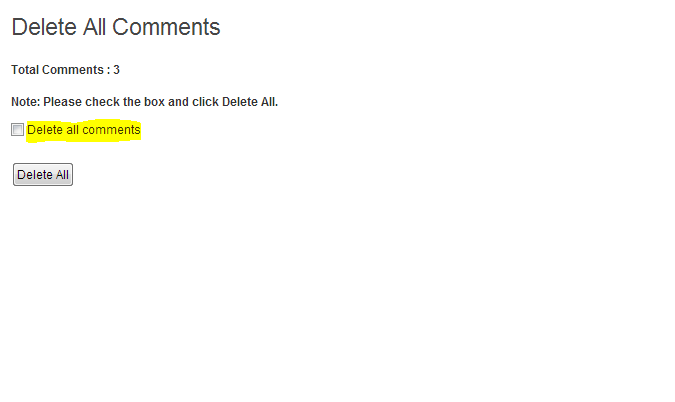
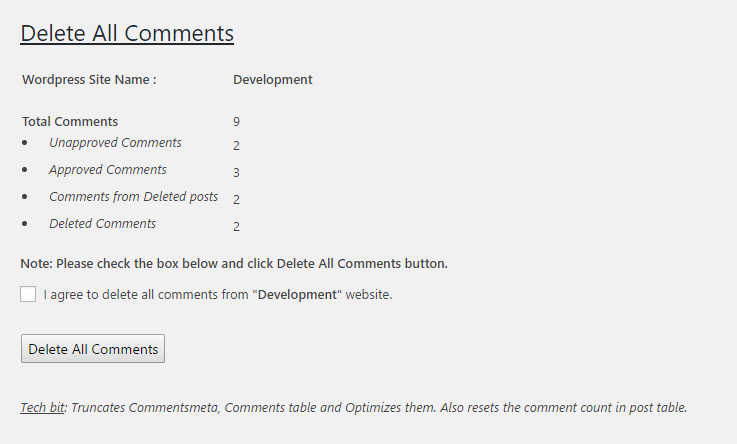
Version 1.5
Revised for WP 4.8

diff --git a/delete-all-comments.php b/delete-all-comments.php
@@ -2,9 +2,9 @@
     /*
     Plugin Name: Delete All Comments
     Plugin URI: http://www.oviamsolutions.com/plugins/delete-all-comments
-    Description: Plugin to delete all comments (Approved, Pending, Spam). Tested upto wordpress 4.6
+    Description: Plugin to delete all comments (Approved, Pending, Spam). Tested upto wordpress 4.8
     Author: Ganesh Chandra
-    Version: 1.3
+    Version: 1.5
     Author URI: http://www.oviamsolutions.com
     */
 ?>
@@ -61,28 +61,28 @@
         } // End of if comment remove ='Y'
         else{
             $current_site = get_bloginfo( 'name' );
-            echo "<table summary='table to display comment status' cellpadding='2' cellspacing='2' border='0'>";
-            echo "<tr>" . "<td><strong>" . "Site Name : " . "</strong></td><td>&nbsp;&nbsp;</td>" . "<td><strong>" . $current_site . "</strong></td>" . "</tr>";
-            echo "<tr>" . "<td>" . "</td><td>&nbsp;&nbsp;</td>" . "<td>" . "</td>" . "</tr>";
+            echo "<table summary='table to display comment status' cellpadding='1' cellspacing='1' border='0'>";
+            echo "<tr>" . "<td><strong>" . " Wordpress Site Name : " . "</strong></td><td>&nbsp;&nbsp;</td>" . "<td><strong>" . $current_site . "</strong></td>" . "</tr>";
+            //echo "<tr>" . "<td>" . "</td><td>&nbsp;&nbsp;</td>" . "<td>" . "</td>" . "</tr>";
             //echo "<tr>" . "<td><strong>" . "Comment Types" . "</strong></td><td>&nbsp;&nbsp;</td>" . "<td><strong> Number of comments  </strong></td>" . "</tr>";
             echo "<tr>" . "<td>" . "</td><td>&nbsp;&nbsp;</td>" . "<td>" . "</td>" . "</tr>";
             echo "<tr>" . "<td><strong>" . "Total Comments" . "</strong></td><td>&nbsp;&nbsp;</td>" . "<td>" . $comments_count . "</td>" . "</tr>";
             foreach ($result as $comment) {
                 switch ($comment->comment_approved){
                     case '0':
-                        echo "<tr>" . "<td><em>" . " -> Unapproved Comments" . "</em></td><td>&nbsp;&nbsp;</td>" . "<td>" . $comment->cnt . "</td>" . "</tr>";
+                        echo "<tr>" . "<td><em>" . " <li> Unapproved Comments </li>" . "</em></td><td>&nbsp;&nbsp;</td>" . "<td>" . $comment->cnt . "</td>" . "</tr>";
                         break;
                     case 'spam':
-                        echo "<tr>" . "<td><em>" . " -> Spam Comments" . "</em></td><td>&nbsp;&nbsp;</td>" . "<td>" . $comment->cnt . "</td>" . "</tr>";
+                        echo "<tr>" . "<td><em>" . " <li> Spam Comments </li>" . "</em></td><td>&nbsp;&nbsp;</td>" . "<td>" . $comment->cnt . "</td>" . "</tr>";
                         break;
                     case 'trash':
-                        echo "<tr>" . "<td><em>" . " -> Deleted Comments" . "</em></td><td>&nbsp;&nbsp;</td>" . "<td>" . $comment->cnt . "</td>" . "</tr>";
+                        echo "<tr>" . "<td><em>" . " <li> Deleted Comments </li>" . "</em></td><td>&nbsp;&nbsp;</td>" . "<td>" . $comment->cnt . "</td>" . "</tr>";
                         break;
                     case 'post-trashed':
-                        echo "<tr>" . "<td><em>" . " -> Comments from Deleted posts" . "</em></td><td>&nbsp;&nbsp;</td>" . "<td>" . $comment->cnt . "</td>" . "</tr>";
+                        echo "<tr>" . "<td><em>" . " <li> Comments from Deleted posts </li>" . "</em></td><td>&nbsp;&nbsp;</td>" . "<td>" . $comment->cnt . "</td>" . "</tr>";
                         break;
                     case '1':
-                        echo "<tr>" . "<td><em>" . " -> Approved Comments" . "</em></td><td>&nbsp;&nbsp;</td>" . "<td>" . $comment->cnt . "</td>" . "</tr>";
+                        echo "<tr>" . "<td><em>" . " <li> Approved Comments </li>" . "</em></td><td>&nbsp;&nbsp;</td>" . "<td>" . $comment->cnt . "</td>" . "</tr>";
                         break;
                 }
             }
@@ -90,12 +90,19 @@
         ?>
         
         <?php if($comments_count > 0) { ?>
-        <p><strong>Note: Please check the box and click Delete All.</strong></p>
+        <p>
+            <strong>Note: Please check the box below and click Delete All Comments button.</strong></p>
             <form name="frmOviamdac" method="post" action="<?php echo str_replace( '%7E', '~', $_SERVER['REQUEST_URI']); ?>">
                 <input type="hidden" name="ovi@m_safe_c0dr" value="<?php echo wp_create_nonce('ovi@m_safe_c0dr'); ?>">
-                <input type="checkbox" name="chkdelete" value="Y" /> Delete all comments
+                <input type="checkbox" name="chkdelete" value="Y" /> I agree to delete all comments from "<strong><?php echo($current_site) ?></strong>" website.
                 <p class="submit">
 		            <input type="submit" name="Submit" value="Delete All Comments" />
+                </p>
+                <p>
+                    <em><u>Tech bit</u>: Truncates Commentsmeta, Comments table and Optimizes them. Also resets the comment count in post table.</em>
+                </p>
+                <p>
+                    <a href="https://www.paypal.com/cgi-bin/webscr?cmd=_s-xclick&hosted_button_id=X6Z2BBNERP6V2"><b>Donate via PayPal</b></a></em>
                 </p>
             </form>
         <?php

diff --git a/README.md b/README.md
@@ -1,2 +1,84 @@
 # deleteallcomments
 Wordpress Plugin for deleteallcomments
+
+=== Delete All Comments ===
+Author: Ganesh Chandra
+Author URI: http://www.oviamsolutions.com
+Contributors: osolutions
+Donate link:https://www.paypal.com/cgi-bin/webscr?cmd=_s-xclick&hosted_button_id=X6Z2BBNERP6V2
+Tags: comment, comments,delete all, delete, remove all comments, remove all, spam, post-trash
+Requires at least: 4.0
+Tested up to: 4.8
+Stable tag:trunk
+License: GPLv2 or later
+License URI: http://www.gnu.org/licenses/gpl-2.0.html
+
+Delete all comments from your database easily.
+
+== Description ==
+
+The 'Delete All Comments' plugin is built to delete all comments (Approved,Pending,Spam,Trash,Post-Trash) from wordpress database easily.
+
+Plugin found under
+
+Tools > Delete All Comments
+
+== Installation ==
+
+Just a standard installation required.
+
+1. Plugins > Add New > Upload > 'delete-all-comments.zip' - Install Now
+
+2. Unzip & Upload 'delete-all--comments' folder to the '/wp-content/plugins/' directory
+
+3. Activate the plugin through the 'Plugins' menu in WordPress
+
+4. Delete All Comments plugin is under 'Tools' menu
+
+== Changelog ==
+
+= 1.0 =
+
+* Stable plugin released
+
+= 1.1 =
+
+* Supports WP new database schema.
+* CSFR vulnerability fixed.
+
+= 1.2 =
+
+* Supports WP 4.6.
+* Provides Site Name and comment total for each status.
+
+= 1.2.1 =
+
+* Fixed warning in Debug = true mode.
+
+== Upgrade Notice ==
+
+= 1.3 =
+
+* Typo fix.
+
+= 1.5 =
+
+* Minor optimization for version 4.8.
+
+N/A
+
+== Frequently Asked Questions ==
+
+= Does this plugin backups the comments in any other table ?
+
+No, it does not.
+
+= Does it provide which site comments are deleted from ?
+
+Yes, in version 1.2 it provides your site name.
+
+== Screenshots ==
+
+http://www.oviamsolutions.com/osplugins/dac/screenshot-1.png
+
+1. Tools > Delete All Comments screenshot-2.png
